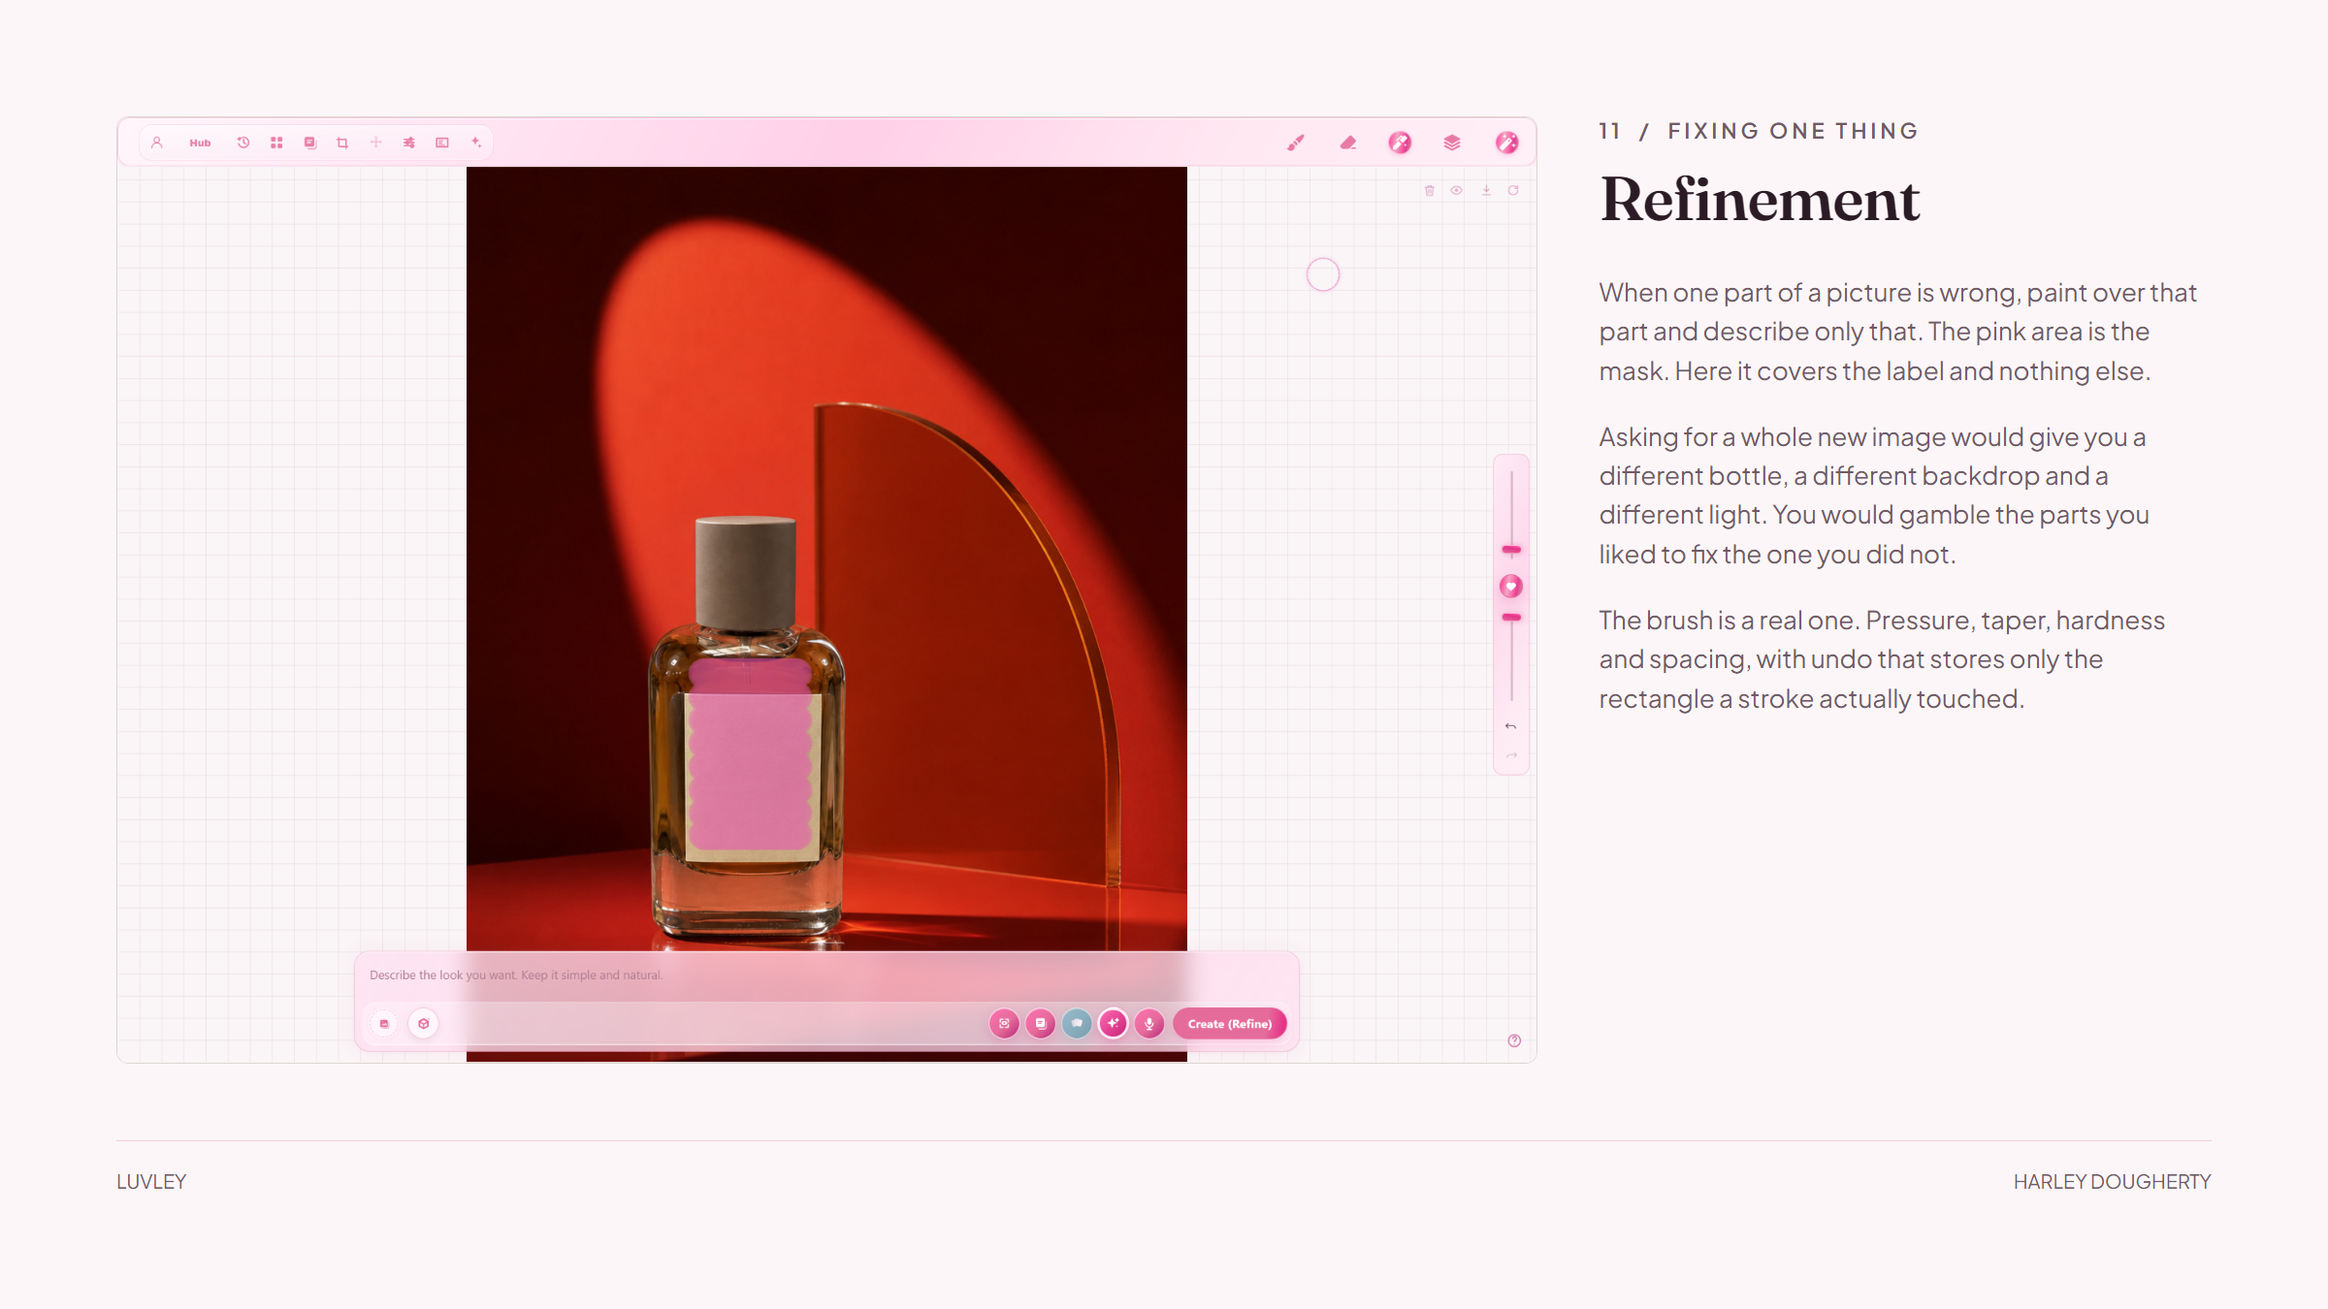
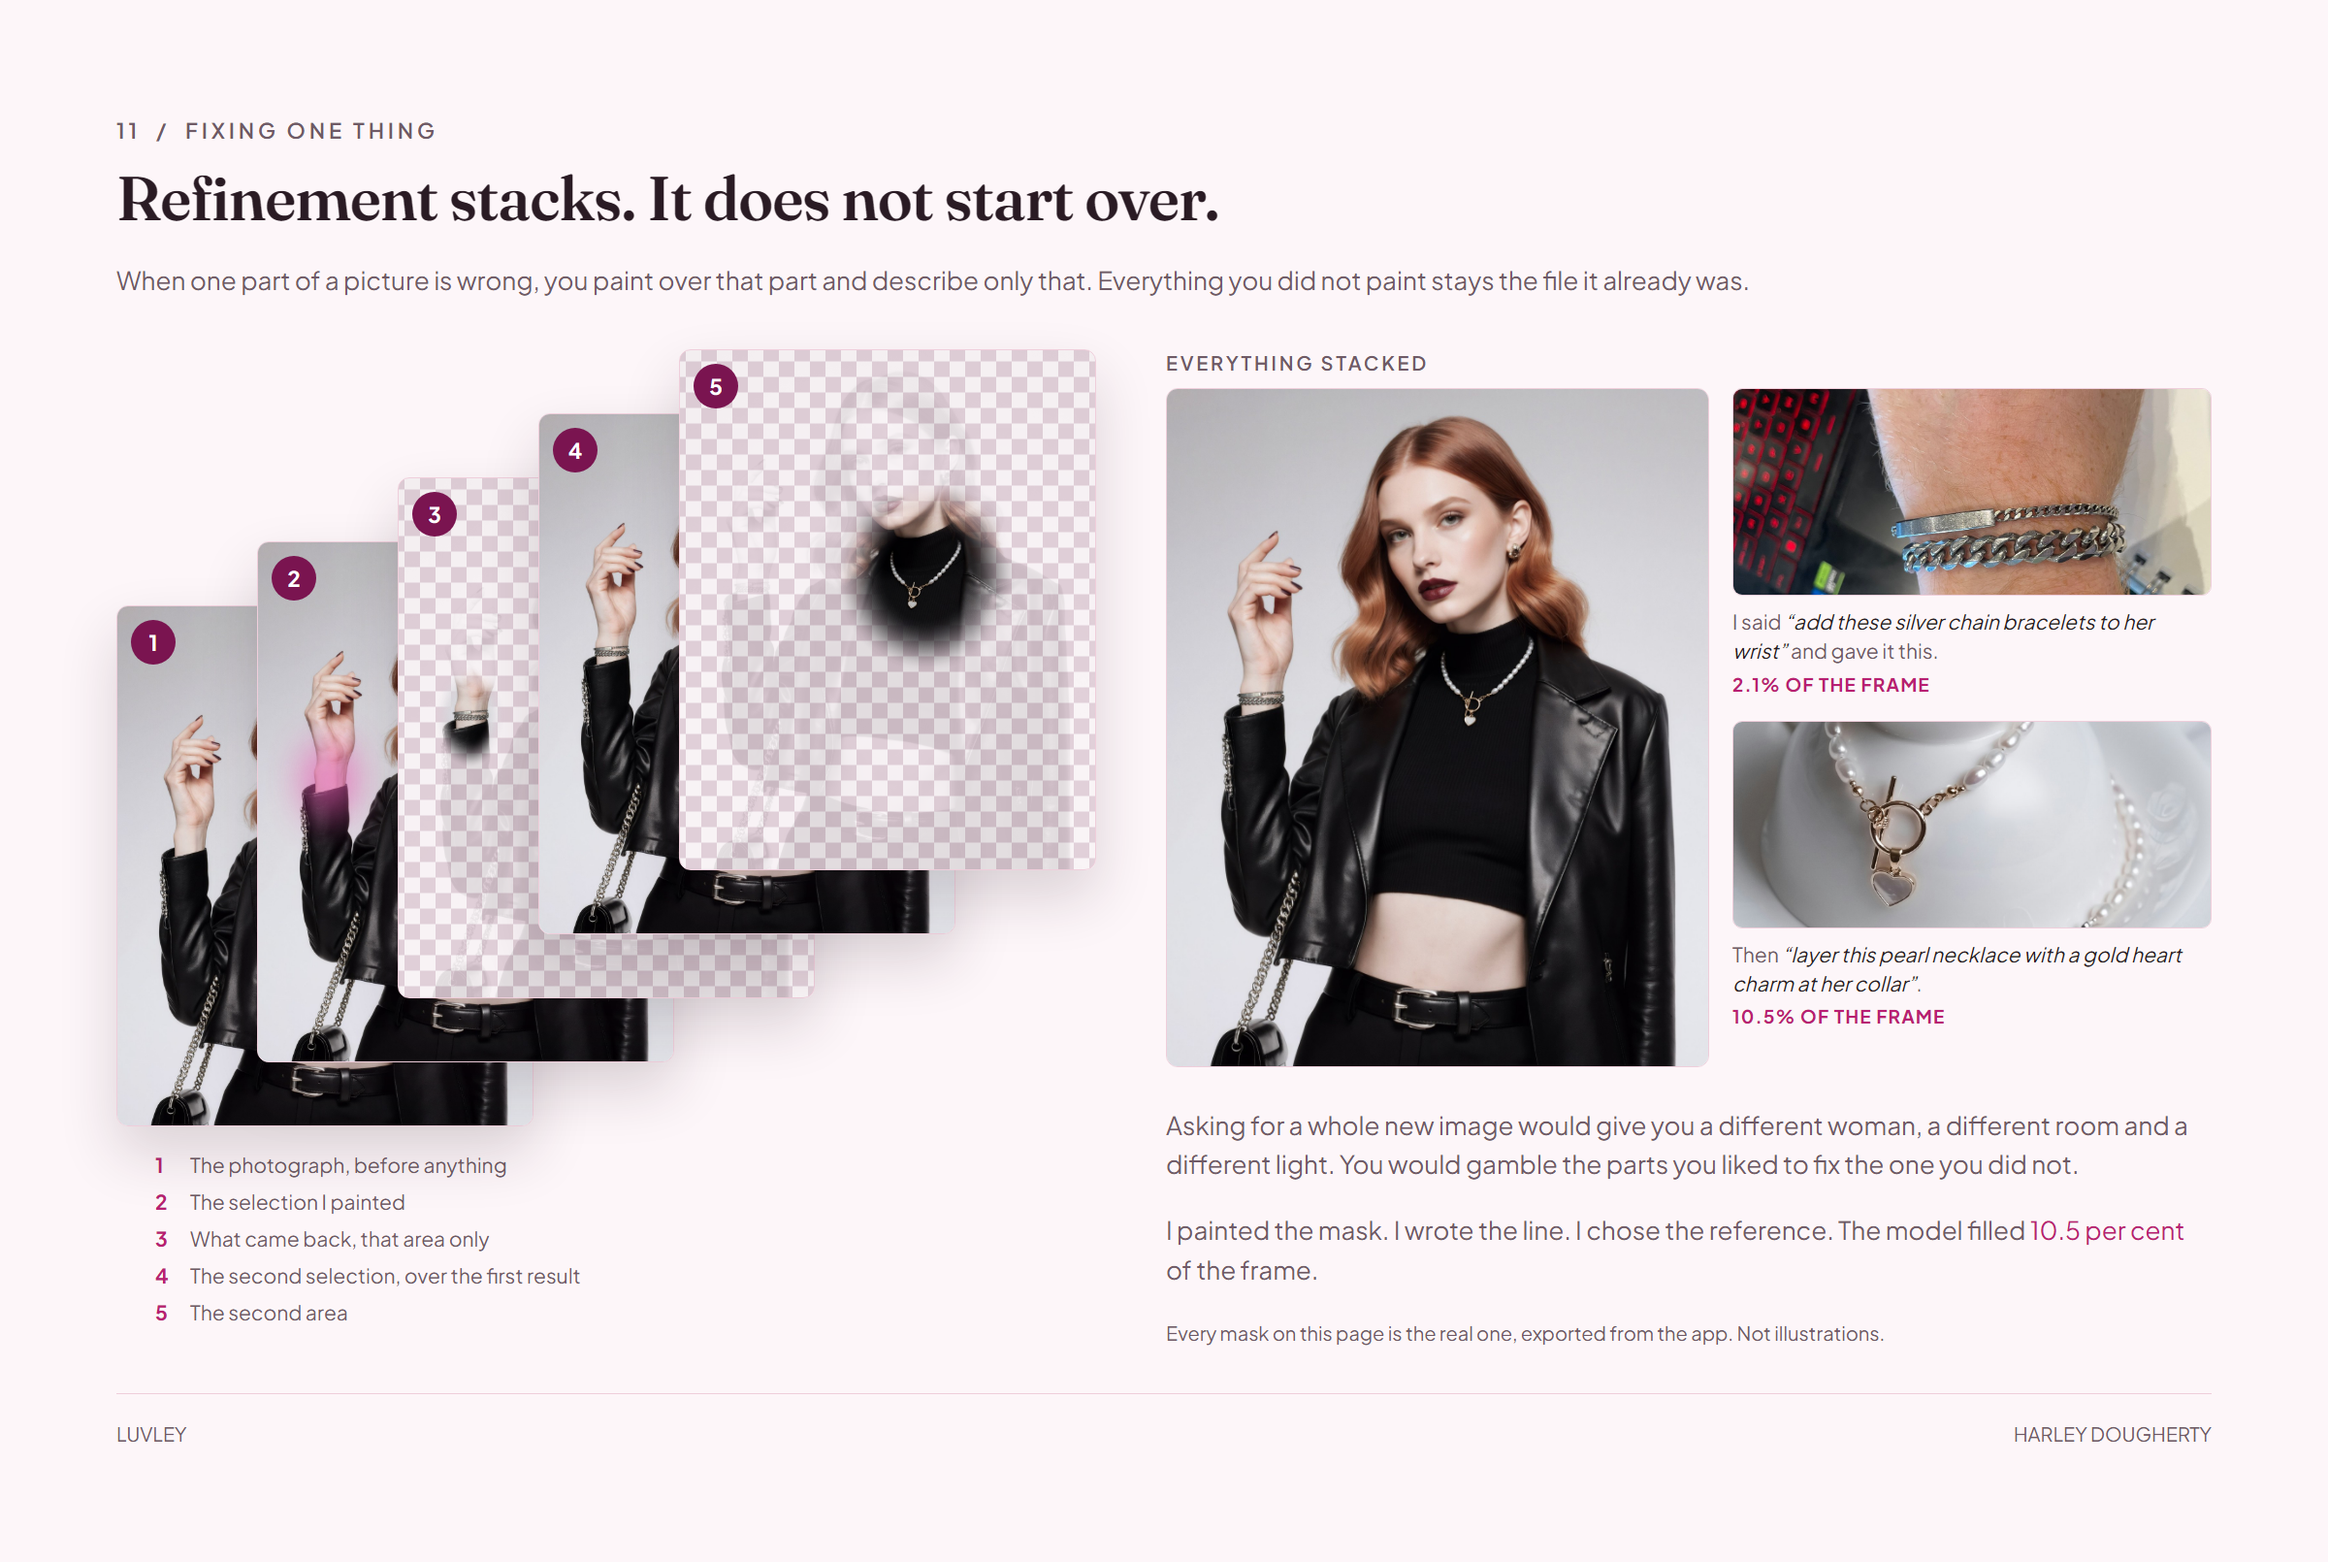
Refinement: the real layer stack, and cut the layers slide
The refinement slide now shows the five files behind one refinement pass: the
photograph, the two masks painted in the app, and the two returned frames cut to
those masks. The percentages on the slide are measured from the same masks that
produced them, so 2.1 and 10.5 are the painted area and nothing else.

The layers slide showed a Layers panel with no layers in it. It is gone. The
Layers section keeps its GIF, which does show the argument.

Adds README.draft.md, the @slug source readme-images.mjs expects and that was
never kept. Without it a reorder silently repoints every slide image, which is
what this commit had to repair by hand.

diff --git a/README.draft.md b/README.draft.md
@@ -25,15 +25,15 @@ without losing the rest of the picture, and then they need the words to run besi
 
 Everything below is what I built around the model calls to make that possible.
 
-![Who it is for](docs/02-who-its-for.png)
+![Who it is for](docs/@who-its-for.png)
 
 ## What it makes
 
-![What it makes](docs/03-what-it-makes.png)
+![What it makes](docs/@what-it-makes.png)
 
 Every one of these started as a phone photograph on a desk, a table or a carpet.
 
-![A phone photo goes in](docs/04-a-phone-photo-goes-in.png)
+![A phone photo goes in](docs/@a-phone-photo-goes-in.png)
 
 The product has to survive the trip unchanged. That is the hard half: the cap knurl, the
 glass thickness, the brushed channel down the ring. Identity survives while everything
@@ -43,17 +43,17 @@ around it is replaced.
 
 ## What happens between your sentence and the model
 
-![The prompt architecture](docs/05-prompt-architecture.png)
+![The prompt architecture](docs/@prompt-architecture.png)
 
 Nothing you type is sent as you typed it. Four blocks compose around it, and each one is
 conditional. A patch edit gets the seam laws, a poster gets the copy engine, nothing else
 carries either.
 
-![Avoiding the median](docs/06-avoiding-the-median.png)
+![Avoiding the median](docs/@avoiding-the-median.png)
 
 ## Quick Looks
 
-![Quick Looks](docs/07-quick-looks.png)
+![Quick Looks](docs/@quick-looks.png)
 
 Saved recipes. Pick your industry, pick a Look, drop in a photo. 249 of them, because a
 fashion brief and a jewellery brief need genuinely different language. Fashion 82,
@@ -79,7 +79,7 @@ under another Look's light.
 
 ## Pieces, not presets
 
-![Pieces, not presets](docs/08-quick-blocks.png)
+![Pieces, not presets](docs/@quick-blocks.png)
 
 A Look isn't a preset in a dropdown. Some are whole shots meant to run alone; the rest are
 pieces, and pieces combine. Every piece belongs to a slot: Studio, Casting, Sets, Lighting,
@@ -91,7 +91,7 @@ everything else, or describe what you want in a sentence and let the app draft i
 
 ## More than one good answer
 
-![Variations](docs/09-variations.png)
+![Variations](docs/@variations.png)
 
 One edit note becomes several genuinely different directions rather than five rerolls of the
 same idea. The rule behind it, from the skill writer: **named angles beat "be diverse."** A
@@ -99,14 +99,14 @@ Look declares its own five angles instead of asking a model to be interesting.
 
 ## The studio
 
-![The studio](docs/10-the-studio.png)
+![The studio](docs/@the-studio.png)
 
 One canvas. The picture is the hero and the tools sit beside it. Every control is a thing a
 designer would want to change, not a setting.
 
 ## Fixing one thing
 
-![Refinement](docs/11-refinement.png)
+![Refinement](docs/@refinement.png)
 
 Paint a mask over the part that's wrong and describe only that. Asking for a whole new image
 instead gives you a different bottle, a different backdrop and a different light. You would be
@@ -120,7 +120,7 @@ gambling the parts you liked to fix the one you didn't.
 
 ### Three laws a patch has to obey
 
-![The image-to-image laws](docs/13-image-to-image-laws.png)
+![The image-to-image laws](docs/@image-to-image-laws.png)
 
 These go out with every refinement, and each one exists because of a specific way the edit
 goes wrong. The one I'm proudest of: *mood words describe content, never pixels.* A sadder
@@ -128,7 +128,7 @@ expression means changed brows, eyes and mouth, not cooler or darker pixels.
 
 ## Two versions, no losing one
 
-![Compare versions](docs/12-compare.png)
+![Compare versions](docs/@compare.png)
 
 A generated result and the photo it came from, side by side, with three ways out: take the new
 one, keep the old one, or put the new one on its own layer and decide later. Nothing is
@@ -151,7 +151,7 @@ The last mile is the part people give up on: the picture is right but it's flat.
 glow, punch-in and a compare wipe are all here, so nobody has to open another application to
 warm up a render.
 
-![Finish](docs/16-finish.png)
+![Finish](docs/@finish.png)
 
 <p align="center">
   <img src="docs/video/finish-demo.gif" width="620" alt="Finish mode: clarity, punch-in, glow sliders and a compare wipe">
@@ -161,19 +161,19 @@ warm up a render.
 
 ## Making the picture bigger than it was shot
 
-![Expand](docs/14-expand.png)
+![Expand](docs/@expand.png)
 
 A phone photo is the wrong shape for almost every placement. Cropping to fit throws away the
 product; expanding invents the room around it instead.
 
-![Crop](docs/15-crop.png)
+![Crop](docs/@crop.png)
 
 And when cropping *is* the right answer, the aspect list is the one a designer expects:
 square, 4:3 through 21:9, 3:4 through 9:21.
 
 ## Turn it into an ad
 
-![Turn into ad](docs/17-turn-into-ad.png)
+![Turn into ad](docs/@turn-into-ad.png)
 
 The photograph is also the brief. You type anything true about the product, pick where the ad
 will run, and it writes the copy and lays it out over the picture. Seven placements, each
@@ -181,7 +181,7 @@ carrying a real aspect ratio.
 
 ### The design is its own control
 
-![The design is its own control](docs/18-ad-design-control.png)
+![The design is its own control](docs/@ad-design-control.png)
 
 Eighty-three layouts in six families, and every tile is a render rather than a wireframe.
 what you pick is what you get. The wording and the layout are decided by different things on
@@ -191,9 +191,9 @@ purpose, so once the copy is written you can change only how it looks.
 the layout only dresses it. Keeping those two apart is what stops a design choice leaking into
 what the ad says.
 
-![CopyEngine](docs/19-copy-engine.png)
+![CopyEngine](docs/@copy-engine.png)
 
-![What it will not say](docs/20-what-it-will-not-say.png)
+![What it will not say](docs/@what-it-will-not-say.png)
 
 It never asks whether a sentence is true. It asks whether the seller supplied something that
 licenses it, and it drops the line when nobody did.
@@ -202,11 +202,11 @@ licenses it, and it drops the line when nobody did.
 
 ## How it is put together
 
-![Architecture](docs/21-architecture.png)
+![Architecture](docs/@architecture.png)
 
 ## The tests cannot spend money
 
-![Test isolation](docs/22-under-it.png)
+![Test isolation](docs/@under-it.png)
 
 The end-to-end tests drive the real server, and that server holds real image-model keys in
 production. So the test environment isn't a copy of a developer's with the dangerous keys
